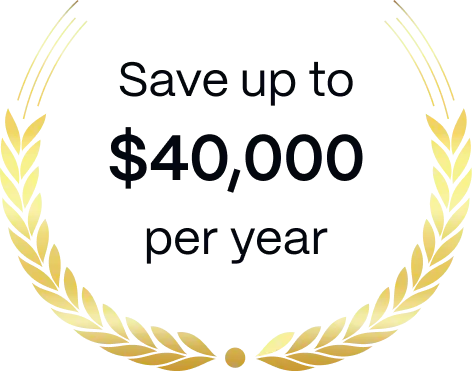
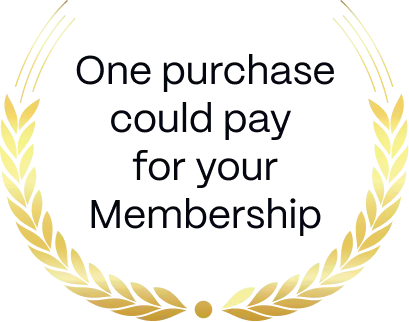
content changes

diff --git a/src/components/home/HeroSection.tsx b/src/components/home/HeroSection.tsx
@@ -26,9 +26,17 @@ export default function HeroSection() {
             initial={{ opacity: 0, y: 30 }}
             animate={isLoaded ? { opacity: 1, y: 0 } : { opacity: 0, y: 30 }}
             transition={{ duration: 0.8, delay: 0.2, ease: "easeOut" }}
-            className="text-body md:text-[18px] text-[18px] font-ppmori text-sub-foreground md:mb-6 mb-8"
+            className="text-body lg:block hidden text-[18px] font-ppmori text-sub-foreground md:mb-6 mb-8"
           >
-            Enjoy Unbeatable Savings on Home Reno Projects, Dining, Travel, Home & Personal Essentials and more
+            Enjoy Unbeatable Savings on Reno Projects, Dining, Travel,<br />Home & Personal Essentials and more
+          </motion.p>
+          <motion.p
+            initial={{ opacity: 0, y: 30 }}
+            animate={isLoaded ? { opacity: 1, y: 0 } : { opacity: 0, y: 30 }}
+            transition={{ duration: 0.8, delay: 0.2, ease: "easeOut" }}
+            className="text-body lg:hidden text-[18px] font-ppmori text-sub-foreground md:mb-6 mb-8"
+          >
+            Enjoy Unbeatable Savings on Reno Projects, Dining, Travel, Home & Personal Essentials and more
           </motion.p>
           <motion.div
             initial={{ opacity: 0, y: 30 }}
@@ -36,18 +44,18 @@ export default function HeroSection() {
             transition={{ duration: 0.8, delay: 0.4, ease: "easeOut" }}
           >
             <div className="flex md:flex-row flex-col lg:justify-start justify-center gap-4">
-              <Link href="/subscribe" className="bg-primary md:text-[18px] text-[17px] font-ppmori-semibold text-white flex justify-center items-center
+              <a href="/subscribe" className="bg-primary md:text-[18px] text-[17px] leading-none font-ppmori-semibold text-white flex justify-center items-center
                 md:h-[48px] h-[48px] md:w-[206px] w-[197px]  rounded-full  hover:bg-primary/80 transition-colors cursor-pointer">
                 Start Saving Today
-              </Link>
-              <Link href="/partner-stores"
-                className="border border-black md:text-[18px] text-[17px] font-ppmori-semibold text-black flex justify-center items-center
+              </a>
+              <a href="/partner-stores"
+                className="border border-black md:text-[18px] text-[17px] leading-none font-ppmori-semibold text-black flex justify-center items-center
                 md:h-[48px] h-[48px] md:w-[206px] w-[197px]  rounded-full
-                 hover:bg-primary/80 transition-colors cursor-pointer">
+                 hover:bg-primary/5 hover:translate-y-[-2px] hover:shadow-md transition-all cursor-pointer">
                 <span className="space-y-[-2px]">
                   See partner stores
                 </span>
-              </Link>
+              </a>
             </div>
           </motion.div>
         </div>

diff --git a/src/contexts/AuthContext.tsx b/src/contexts/AuthContext.tsx
@@ -4,6 +4,7 @@
 import React, { createContext, useContext, useState, useEffect, ReactNode } from 'react';
 import { User, AuthResponse } from '../types';
 import * as authService from '../services/auth.service';
+import api from '../lib/api';
 
 interface AuthContextType {
     user: User | null;
@@ -13,6 +14,7 @@ interface AuthContextType {
     socialLogin: (provider: 'google' | 'apple', token: string, fullName?: any) => Promise<User | undefined>;
     logout: () => void;
     updateUser: (user: User) => void;
+    refreshProfile: () => Promise<User | undefined>;
 }
 
 const AuthContext = createContext<AuthContextType | undefined>(undefined);
@@ -21,15 +23,35 @@ export const AuthProvider = ({ children }: { children: ReactNode }) => {
     const [user, setUser] = useState<User | null>(null);
     const [loading, setLoading] = useState(true);
 
+    const refreshProfile = async (): Promise<User | undefined> => {
+        try {
+            const token = localStorage.getItem('token');
+            if (!token) return undefined;
+
+            const response = await api.get<{ success: boolean, data: User }>('/users/profile');
+            if (response.data?.success && response.data?.data) {
+                const freshUser = response.data.data;
+                localStorage.setItem('user', JSON.stringify(freshUser));
+                setUser(freshUser);
+                return freshUser;
+            }
+        } catch (error) {
+            console.error('Failed to refresh user profile from server:', error);
+        }
+        return undefined;
+    };
+
     useEffect(() => {
         // Initialize session
         const initAuth = async () => {
             try {
                 const storedUser = localStorage.getItem('user');
                 const token = localStorage.getItem('token');
-                
+
                 if (storedUser && token) {
                     setUser(JSON.parse(storedUser));
+                    // Asynchronously update profile details from backend
+                    await refreshProfile();
                 }
             } catch (e) {
                 console.error('Failed to restore auth session', e);
@@ -100,14 +122,15 @@ export const AuthProvider = ({ children }: { children: ReactNode }) => {
     };
 
     return (
-        <AuthContext.Provider value={{ 
-            user, 
-            loading, 
-            isAuthenticated: !!user, 
-            login, 
-            socialLogin, 
+        <AuthContext.Provider value={{
+            user,
+            loading,
+            isAuthenticated: !!user,
+            login,
+            socialLogin,
             logout,
-            updateUser
+            updateUser,
+            refreshProfile
         }}>
             {children}
         </AuthContext.Provider>

diff --git a/src/components/home/SmartStanding.tsx b/src/components/home/SmartStanding.tsx
@@ -94,7 +94,7 @@ export default function SmartStanding() {
                         </svg>
                     </div>
                 </div>
-                <div className="flex flex-wrap justify-center lg:justify-between lg:max-w-7xl gap-10  w-full mt-10 md:px-10 mx-auto">
+                <div className="flex flex-wrap justify-start lg:justify-between lg:max-w-7xl gap-10  w-full mt-10 md:px-10 mx-auto">
                     <div className="flex gap-3 items-start">
                         <div>
                             <div className="relative aspect-square md:w-[48px] w-[40px] mt-0.5">
@@ -104,7 +104,7 @@ export default function SmartStanding() {
                         </div>
                         <div>
                             <p className="md:text-[22px] text-[18px] font-ppmori-semibold text-head">Exclusive member pricing</p>
-                            <p className="text-[16px] font-ppmori text-[#4B5563]">Special discounts not available to <span className="block">regular customers</span></p>
+                            <p className="text-[16px] font-ppmori text-[#4B5563]">Our special discounts are not<br />available to non member<br />customers</p>
                         </div>
                     </div>
                     <div className="flex gap-3 items-start">
@@ -126,13 +126,13 @@ export default function SmartStanding() {
                         </div>
                         <div>
                             <p className="md:text-[22px] text-[18px] font-ppmori-semibold text-head">Simple in-store redemption</p>
-                            <p className="text-[16px] font-ppmori text-[#4B5563]">No codes, no coupons,<span className="block"> just show your ID</span></p>
+                            <p className="text-[16px] font-ppmori text-[#4B5563]">No codes, no coupons,<br />just show your ID</p>
                         </div>
                     </div>
                 </div>
                 <div className="my-20 flex justify-center">
                     <button className="bg-primary text-[18px] font-ppmori-semibold text-white px-12 py-3 h-12  rounded-full  hover:bg-primary/80 transition-colors cursor-pointer">
-                        Get Membership
+                        Unlock Your Membership
                     </button>
                 </div>
             </div>

diff --git a/src/components/Navbar.tsx b/src/components/Navbar.tsx
@@ -7,12 +7,13 @@ import { useAuth } from "@/contexts/AuthContext";
 import { User, LogOut, ChevronDown, Menu, X, QrCode } from "lucide-react";
 import { motion, AnimatePresence, Variants } from "framer-motion";
 import { useLoading } from "@/contexts/LoadingContext";
-import { usePathname } from "next/navigation";
+import { usePathname, useRouter } from "next/navigation";
 import LoginModal from "./LoginModal";
 import LogoutConfirmModal from "./LogoutConfirmModal";
 
 export default function Navbar() {
   const { isLoaded } = useLoading();
+  const router = useRouter();
   const [isOpen, setIsOpen] = useState(false);
   const { user, isAuthenticated, logout } = useAuth();
   const [isProfileOpen, setIsProfileOpen] = useState(false);
@@ -41,6 +42,7 @@ export default function Navbar() {
 
   const handleConfirmLogout = () => {
     logout();
+    router.push("/");
     setIsLogoutConfirmOpen(false);
     setIsProfileOpen(false);
     setIsOpen(false);
@@ -114,6 +116,7 @@ export default function Navbar() {
                   <div className="relative">
                     <button
                       onClick={() => setIsProfileOpen(!isProfileOpen)}
+                      onBlur={() => setTimeout(() => setIsProfileOpen(false), 200)}
                       className="flex items-center space-x-2 bg-gray-50 border border-gray-100 px-4 py-2 rounded-full hover:bg-gray-100 transition-all cursor-pointer"
                     >
                       <div className="w-8 h-8 rounded-full bg-primary/10 flex items-center justify-center overflow-hidden">

diff --git a/src/app/profile/page.tsx b/src/app/profile/page.tsx
@@ -29,7 +29,7 @@ import { toast } from 'react-hot-toast';
 import LogoBadge from "./profile/renu-plus-badge.svg";
 import LogoutConfirmModal from '@/components/LogoutConfirmModal';
 export default function ProfilePage() {
-    const { user, isAuthenticated, loading: authLoading, logout, updateUser } = useAuth();
+    const { user, isAuthenticated, loading: authLoading, logout, updateUser, refreshProfile } = useAuth();
     const router = useRouter();
 
     // Tab state
@@ -86,6 +86,13 @@ export default function ProfilePage() {
             }
         };
         fetchSubscriptionData();
+    }, [isAuthenticated]);
+
+    // Fetch fresh profile data on mount
+    useEffect(() => {
+        if (isAuthenticated) {
+            refreshProfile();
+        }
     }, [isAuthenticated]);
 
     // Set form initial state on user load
@@ -180,10 +187,10 @@ export default function ProfilePage() {
     };
 
     const handleConfirmSignOut = () => {
+        router.push('/');
         logout();
         setIsLogoutConfirmOpen(false);
         toast.success('Signed out successfully.');
-        router.push('/');
     };
 
     // Default perks fallback if API doesn't return any

diff --git a/src/components/who-we-are/WhoWeAreHero.tsx b/src/components/who-we-are/WhoWeAreHero.tsx
@@ -38,7 +38,7 @@ export default function WhoWeAreHero() {
           >
             <div className="flex md:flex-row flex-col gap-4">
               <Link href="/subscribe" className="bg-primary md:text-[18px] text-[17px] font-ppmori-semibold text-white flex justify-center items-center
-                md:h-[48px] h-[48px] md:w-fit px-6 rounded-full  hover:bg-primary/80 transition-colors cursor-pointer">
+                md:h-[48px] h-[48px] md:w-fit px-6 rounded-full leading-none hover:bg-primary/80 transition-colors cursor-pointer">
                 Join Renu+ now
               </Link>
             </div>

diff --git a/src/components/home/HaveQuestions.tsx b/src/components/home/HaveQuestions.tsx
@@ -10,7 +10,7 @@ export default function HaveQuestions() {
                 <Image src={Leaf1} alt="Leaf" fill className="object-contain" />
             </div>
             <div className="text-foreground font-ppmori-semibold lg:text-[40px] text-[28px] text-center">
-                Got questions?
+                Questions?
             </div>
             <div className="mt-2 max-w-md text-sub-foreground font-ppmori lg:text-[16px] text-[16px] text-center mx-auto">
                 Contact us today to learn more about our membership benefits and how you can start saving immediately.

diff --git a/src/components/home/AppPromotionSection.tsx b/src/components/home/AppPromotionSection.tsx
@@ -39,7 +39,7 @@ const AppPromotionSection: React.FC<AppPromotionSectionProps> = ({ id, isPopup =
 
             {/* Description */}
             <p className="text-[#52525B] text-[16px] md:mb-10 max-w-[387px] mb-8 font-ppmori leading-relaxed">
-              Download the Renu+ app on iOS or Android. Join thousands of Canadians getting more from their everyday spending.
+              Download the Renu+ app on iOS or Android. Join thousands of members getting more from their everyday spending.
             </p>
 
             {/* CTA Button */}
